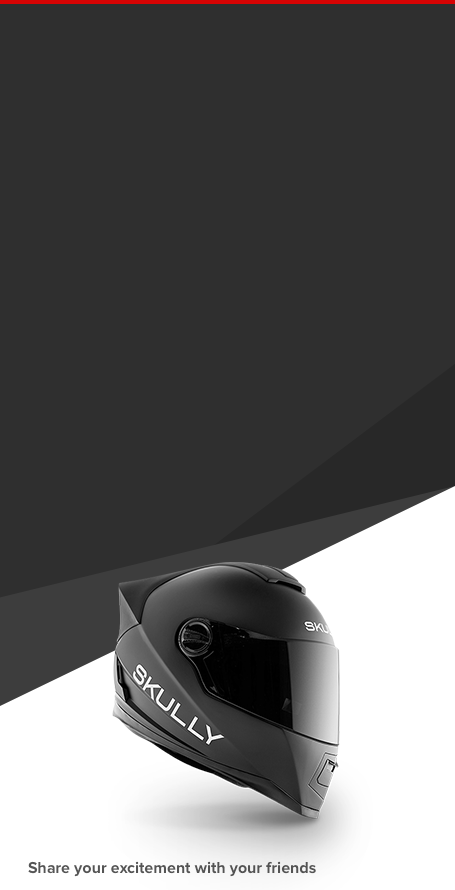
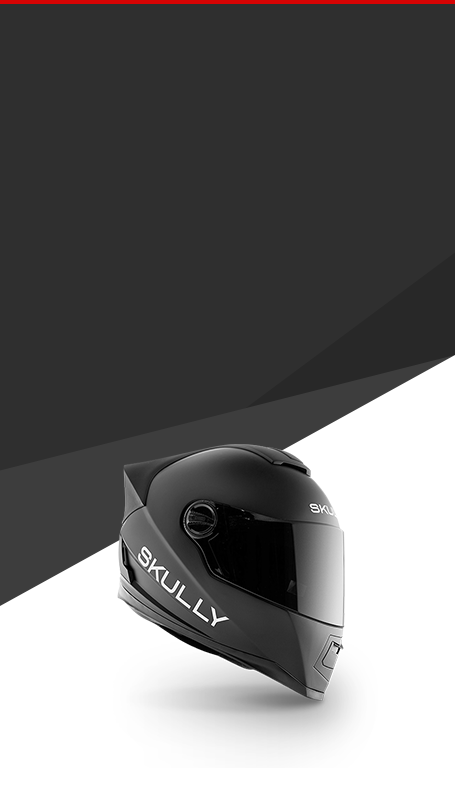
modified email

Changed region(s): [[0.0, 0.4375, 1.0, 1.0]]

diff --git a/templates/email/order-confirmation-skully.html b/templates/email/order-confirmation-skully.html
@@ -942,56 +942,24 @@
                     <td align="center" class="bodyContent" style="padding-top: 0px;-webkit-text-size-adjust: 100%;-ms-text-size-adjust: 100%;mso-table-lspace: 0pt;mso-table-rspace: 0pt;color: rgb(152,152,152);font-family: Helvetica;font-size: 16px;line-height: 150%;padding-bottom: 20px; 20px;text-align: left;">
                       <!-- <table border="0" cellpadding="0" cellpadding="0" width="100%" -->
                       <!-- style="background-color:#2f2f2f; color:#ffffff; border-top: 4px solid #D70404;"> -->
-                      <table border="0" cellpadding="0" width="455px;" style="min-height:900px; color: #ffffff;background-image: url('http://static.skully.com/img/email/background.png');background-repeat: no-repeat;-webkit-text-size-adjust: 100%;-ms-text-size-adjust: 100%;mso-table-lspace: 0pt;mso-table-rspace: 0pt;border-collapse: collapse !important;">
+                      <table border="0" cellpadding="0" width="455px;" style="min-height:800px; color: #ffffff;background-image: url('http://static.skully.com/img/email/background.png');background-repeat: no-repeat;-webkit-text-size-adjust: 100%;-ms-text-size-adjust: 100%;mso-table-lspace: 0pt;mso-table-rspace: 0pt;border-collapse: collapse !important;">
                         <tr>
                           <td class="message" style="-webkit-text-size-adjust: 100%;-ms-text-size-adjust: 100%;mso-table-lspace: 0pt;mso-table-rspace: 0pt;padding-left: 15px;padding-right: 15px;font-size: 11pt;">
                             <p style="-webkit-text-size-adjust: 100%;-ms-text-size-adjust: 100%;font-size: 11pt;">
                               Hello,
                             </p>
                             <p style="-webkit-text-size-adjust: 100%;-ms-text-size-adjust: 100%;font-size: 11pt;">
-                              Thank you for purchasing an AR-1. I want to welcome you to the new age of motorcycling.</p>
-                            <p style="-webkit-text-size-adjust: 100%;-ms-text-size-adjust: 100%;font-size: 11pt;">
-                              A little more than a year ago, we gathered
-                              together in
-                              a garage with
-                              an important
-                              mission, to
-                              save the lives
-                              of our fellow
-                              riders. Our
-                              goal was to
-                              bring much
-                              needed technology
-                              to an industry
-                              that has seen
-                              little innovation
-                              in over four
-                              decades.
+                                We all remember our first ride. The wind in our face, the freedom, and the excitement of an epic journey just begun.
                             </p>
                             <p style="-webkit-text-size-adjust: 100%;-ms-text-size-adjust: 100%;font-size: 11pt;">
-                              We all remember our first ride. The wind
-                              in our face,
-                              the freedom,
-                              and the rare
-                              excitement
-                              of an epic
-                              journey just
-                              begun. Thanks
-                              for joining
-                              SKULLY Nation
-                              on this journey
-                              and ride safe.
+                                Thank you for purchasing the SKULLY AR-1. Welcome to the future of motorcycling.
                             </p>
                             <p style="-webkit-text-size-adjust: 100%;-ms-text-size-adjust: 100%;font-size: 11pt;">
-                              If you have any questions about your order
-                              your can visit
-                              the
-                              <a target="_blank" href="http://store.skully.com/login" style="-webkit-text-size-adjust: 100%;-ms-text-size-adjust: 100%;color: #FFFFFF !important;font-weight: normal;text-decoration: underline;">Customer Portal</a>. For questions
-                              about SKULLY
-                              in general,
-                              please visit
-                              our
-                              <a target="_blank" href="https://support.skully.com/" style="-webkit-text-size-adjust: 100%;-ms-text-size-adjust: 100%;color: #FFFFFF !important;font-weight: normal;text-decoration: underline;">Help Center</a>.
+                                If you have any questions about your order don’t hesitate to contact our
+                                <a target="_blank" href="https://support.skully.com/" style="-webkit-text-size-adjust: 100%;-ms-text-size-adjust: 100%;color: #FFFFFF !important;font-weight: normal;text-decoration: underline;">Help Center</a>.
+                            </p>
+                            <p style="-webkit-text-size-adjust: 100%;-ms-text-size-adjust: 100%;font-size: 11pt;">
+                                Keep the rubber side down. Hello,
                             </p>
                           </td>
                         </tr>
@@ -1007,7 +975,7 @@
                         </tr>
                         <tr>
                           <td class="message" style="padding-bottom: 385px;-webkit-text-size-adjust: 100%;-ms-text-size-adjust: 100%;mso-table-lspace: 0pt;mso-table-rspace: 0pt;padding-left: 15px;padding-right: 15px;font-size: 11pt;">
-                            CEO &amp; Founder at SKULLY
+                            CEO | SKULLY
                           </td>
                         </tr>
                     </table>
